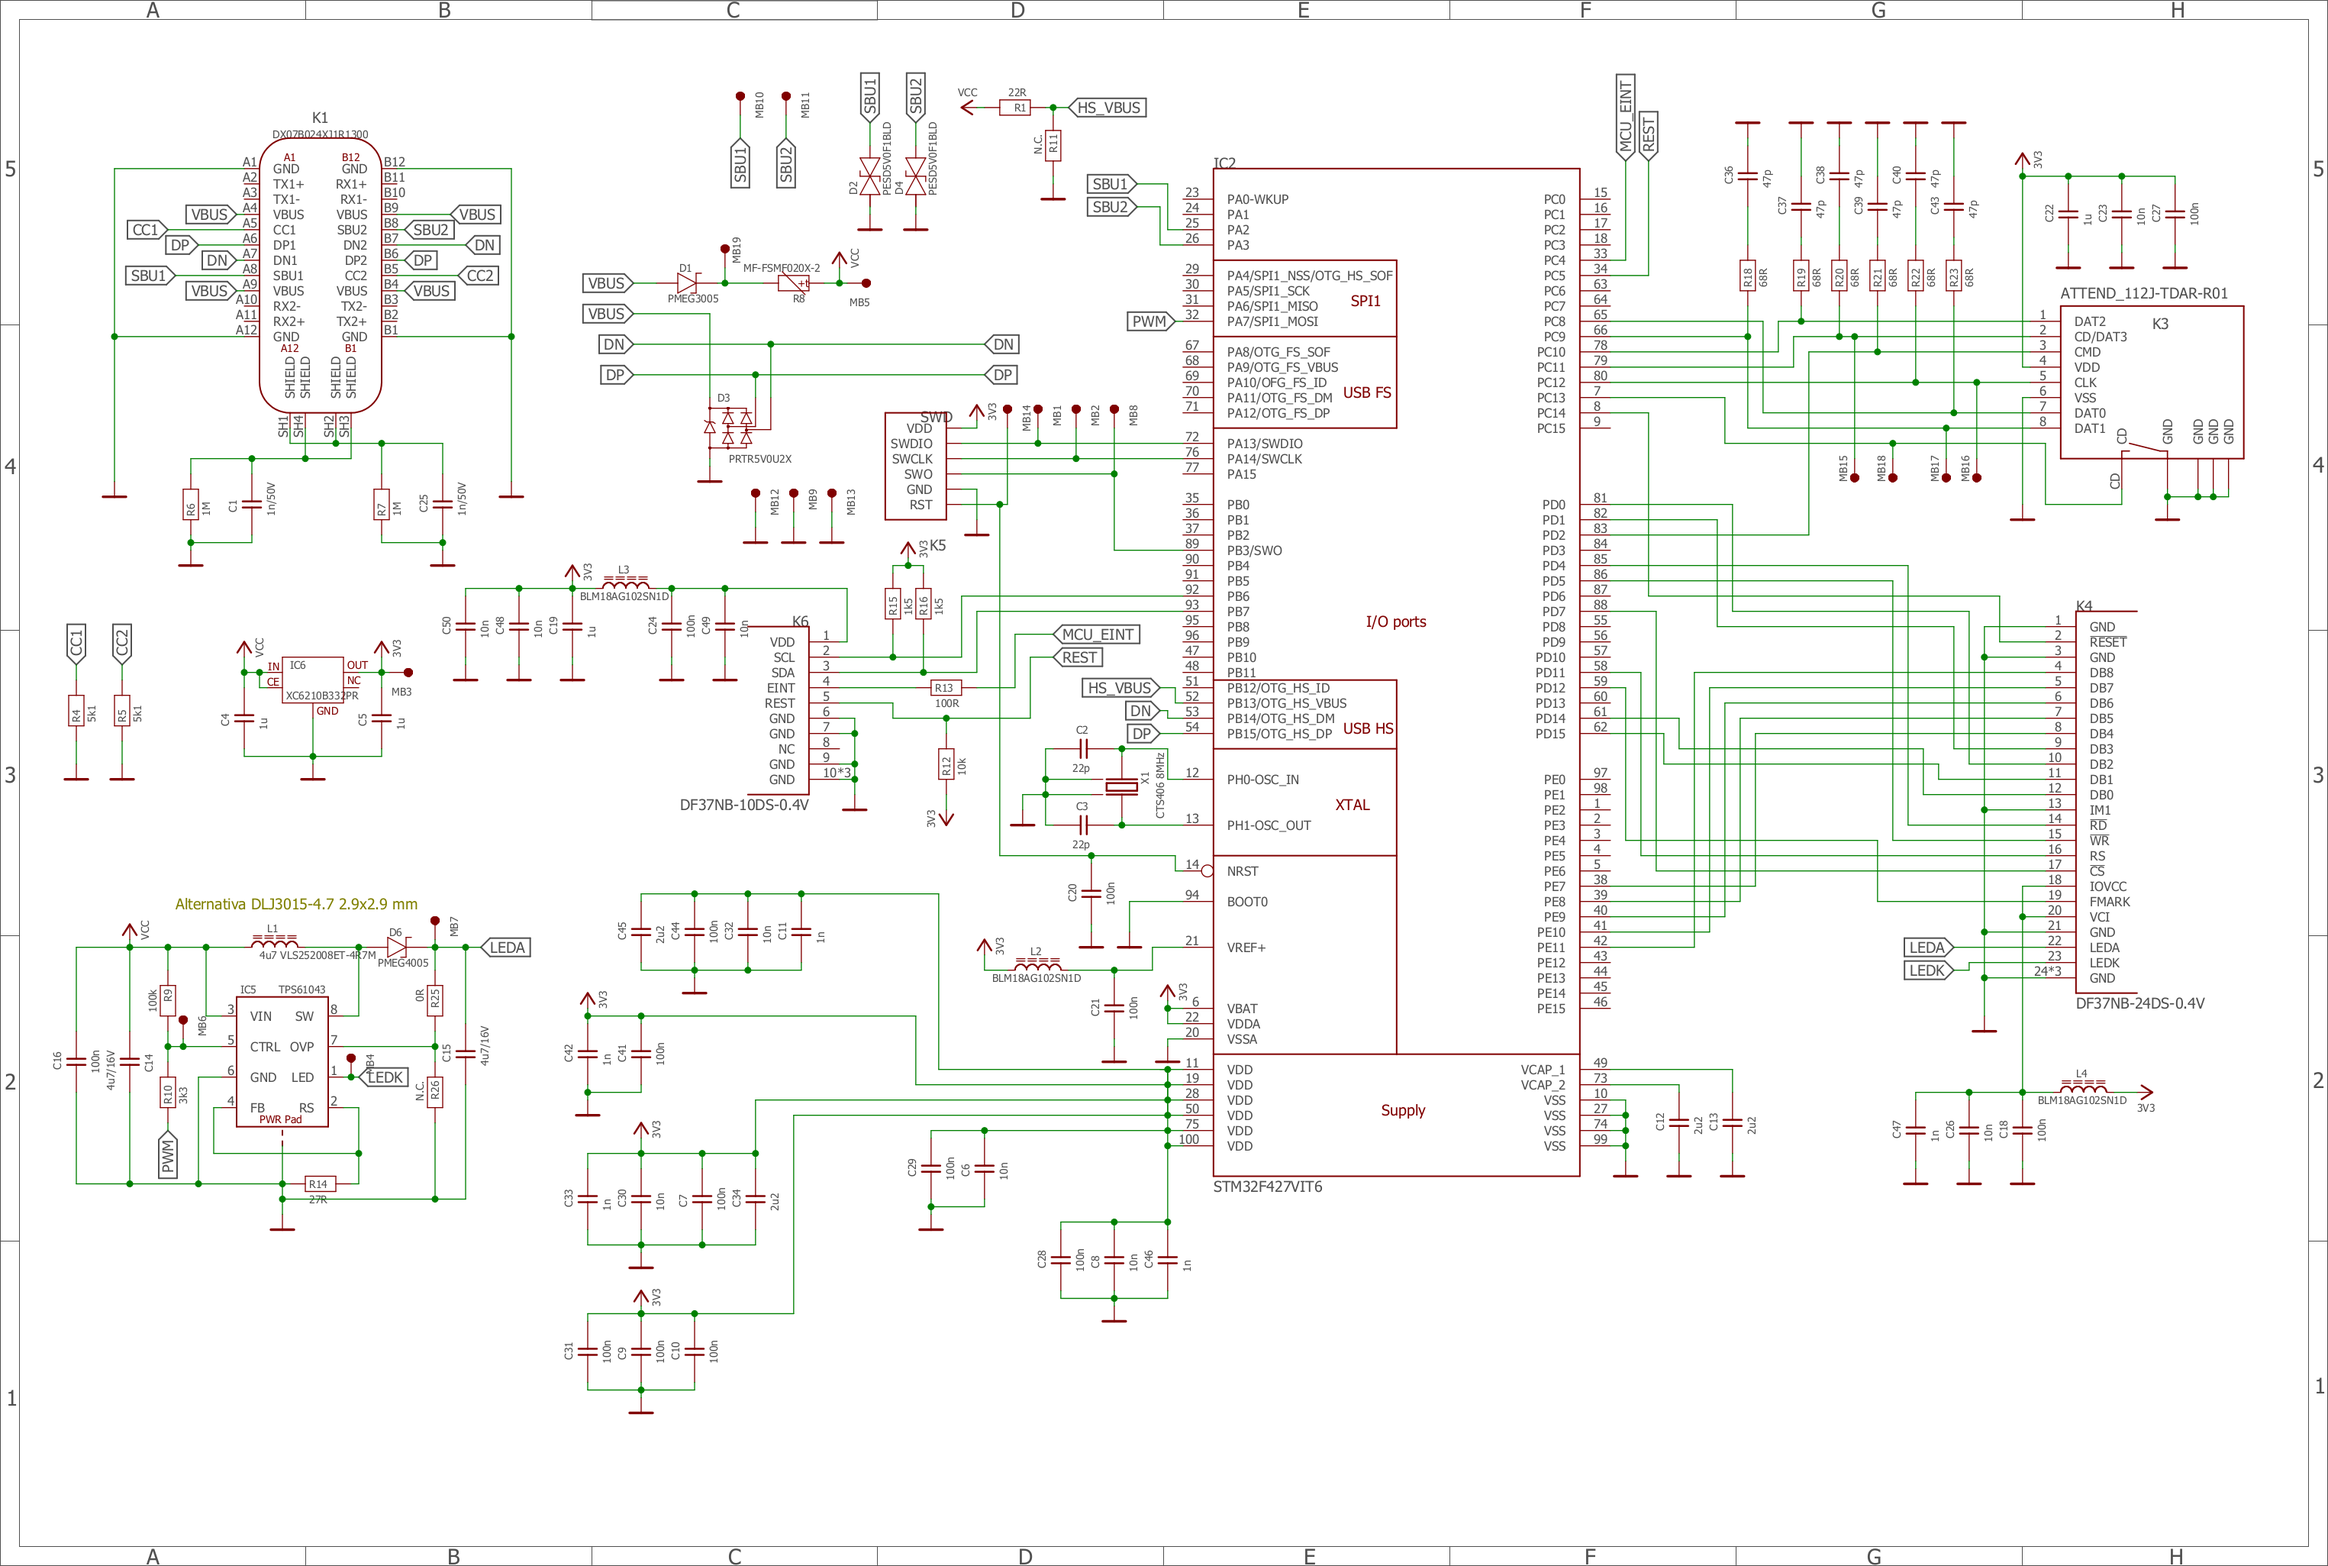
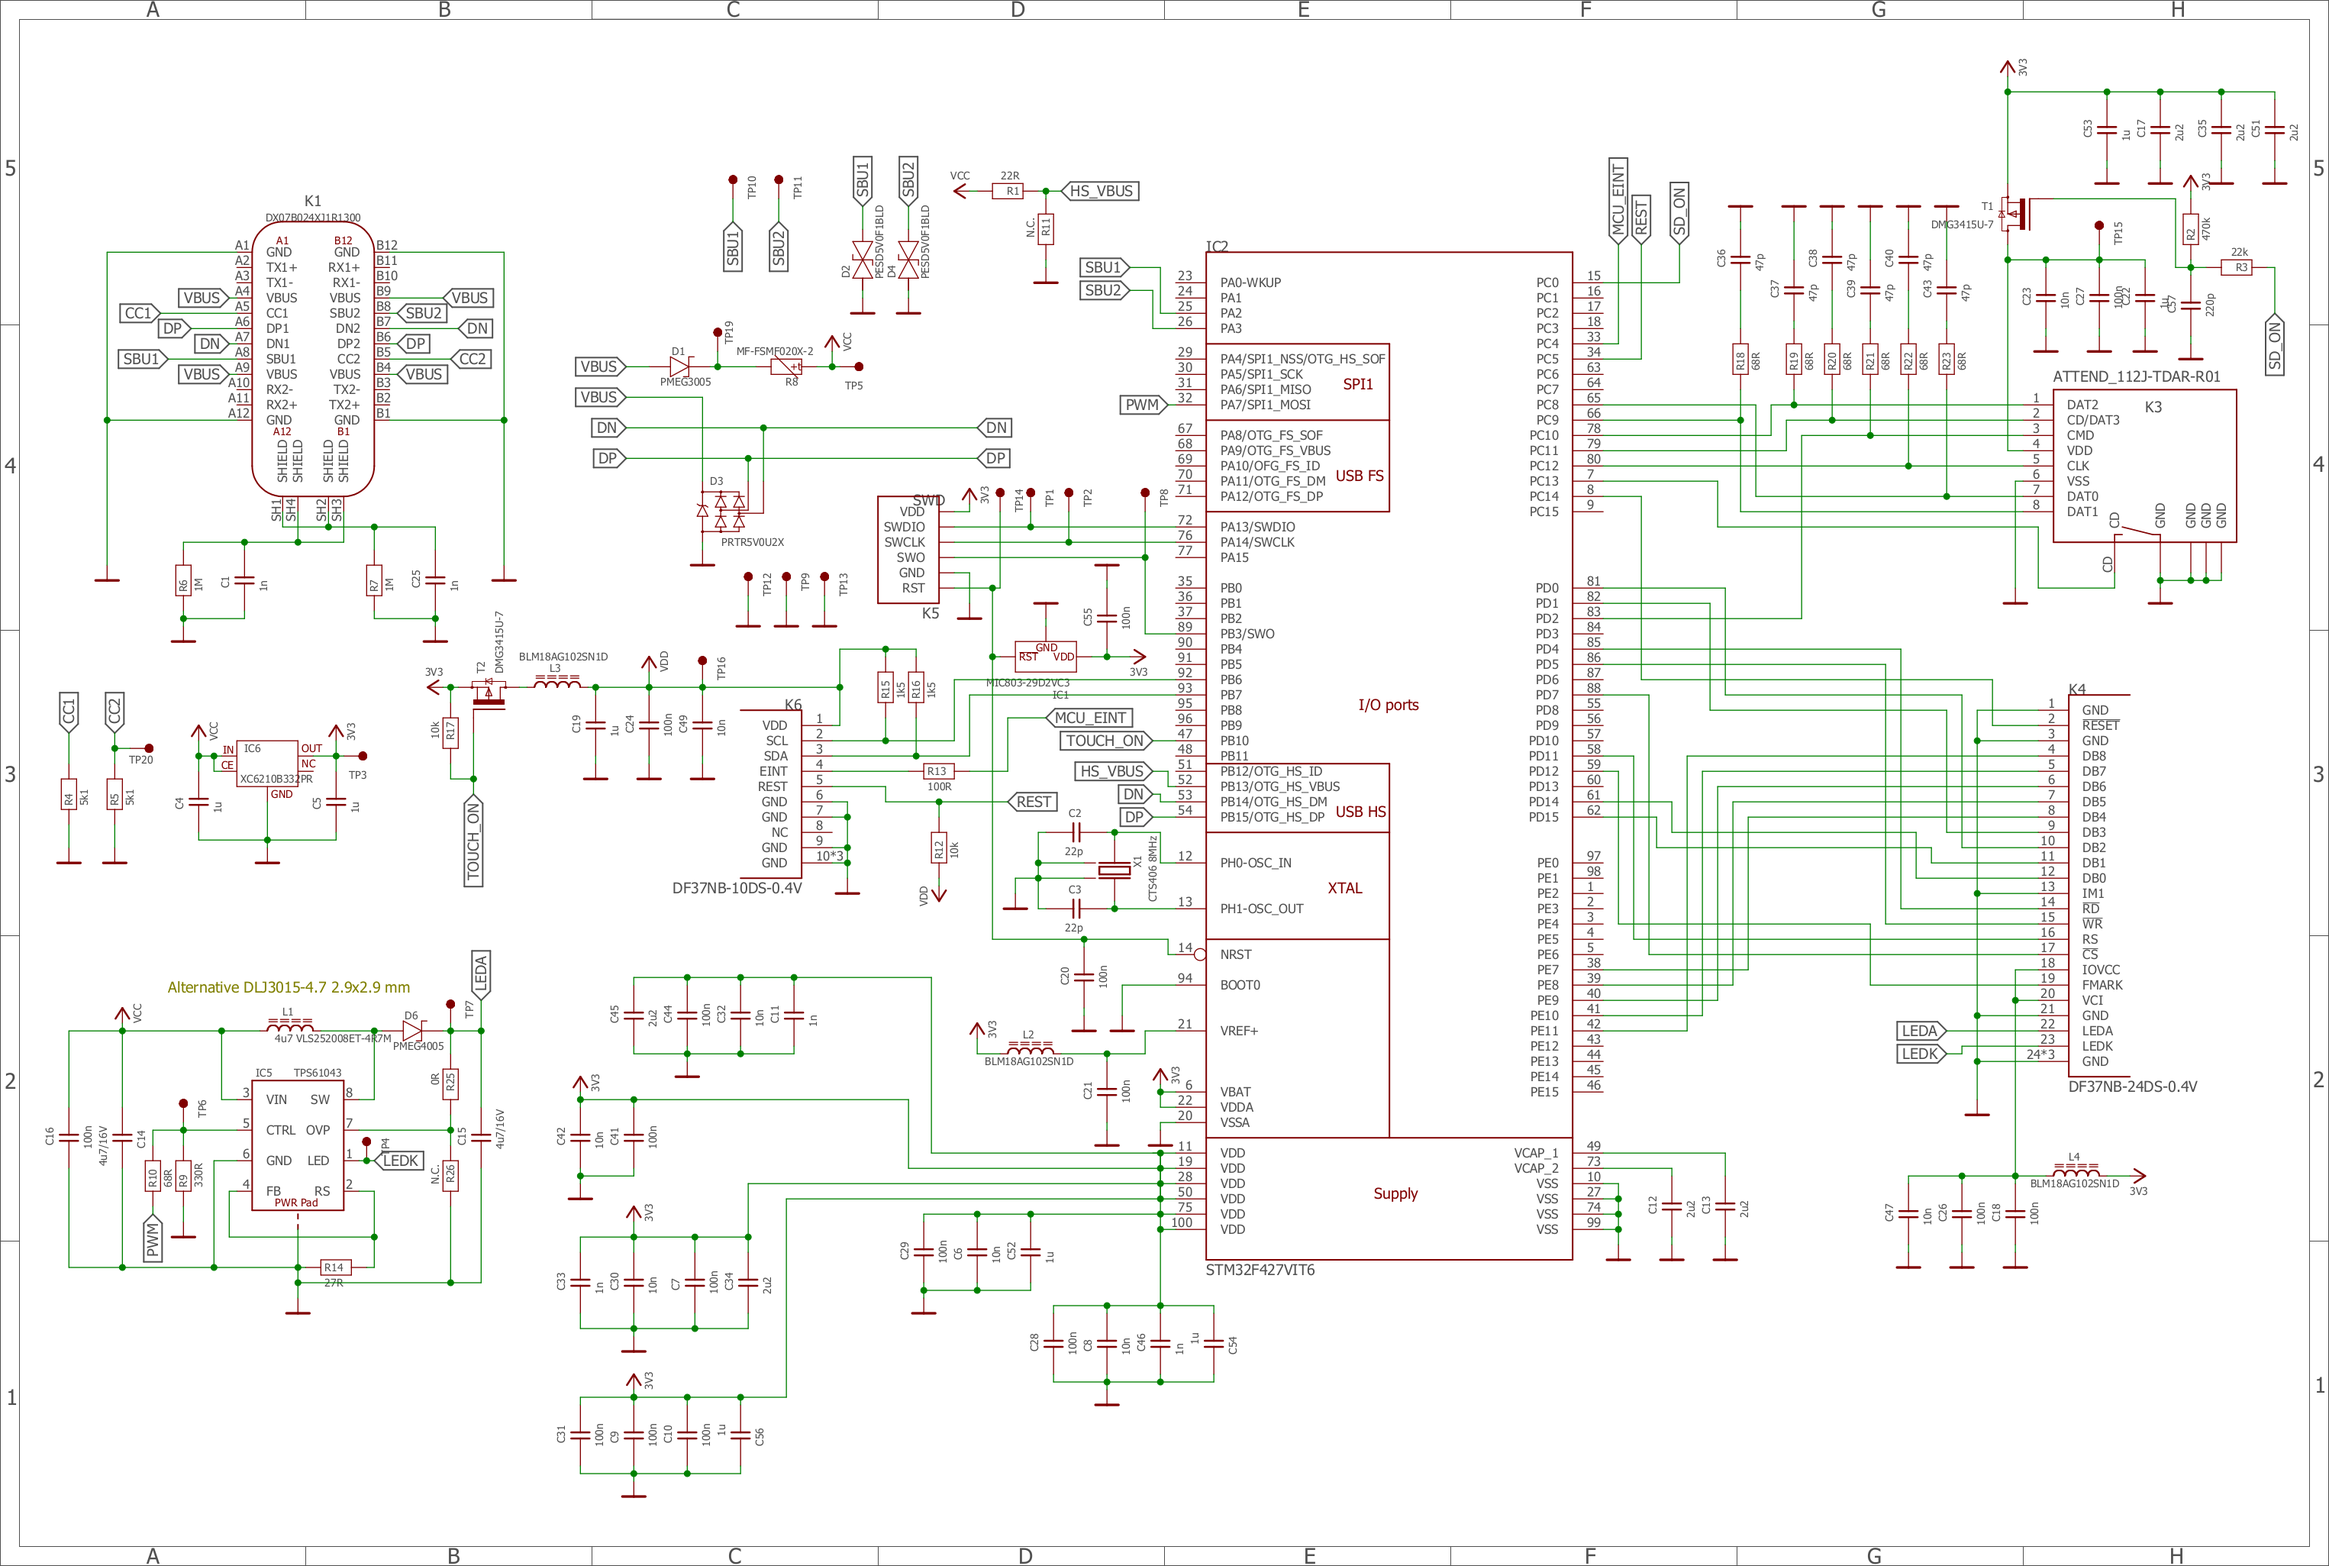
trezorhal: turn sdcard/cpt circuitry on/off using PC0/PB10 pin

diff --git a/embed/trezorhal/sdcard.c b/embed/trezorhal/sdcard.c
@@ -51,6 +51,16 @@
 
 static SD_HandleTypeDef sd_handle;
 
+static void sdcard_default_pin_state(void) {
+    HAL_GPIO_WritePin(GPIOC, GPIO_PIN_0,  GPIO_PIN_SET);    // SD_ON/PC0
+    HAL_GPIO_WritePin(GPIOC, GPIO_PIN_8,  GPIO_PIN_RESET);  // SD_DAT0/PC8
+    HAL_GPIO_WritePin(GPIOC, GPIO_PIN_9,  GPIO_PIN_RESET);  // SD_DAT1/PC9
+    HAL_GPIO_WritePin(GPIOC, GPIO_PIN_10, GPIO_PIN_RESET);  // SD_DAT2/PC10
+    HAL_GPIO_WritePin(GPIOC, GPIO_PIN_11, GPIO_PIN_RESET);  // SD_DAT3/PC11
+    HAL_GPIO_WritePin(GPIOC, GPIO_PIN_12, GPIO_PIN_RESET);  // SD_CLK/PC12
+    HAL_GPIO_WritePin(GPIOD, GPIO_PIN_2,  GPIO_PIN_RESET);  // SD_CMD/PD2
+}
+
 void sdcard_init(void) {
     // invalidate the sd_handle
     sd_handle.Instance = NULL;
@@ -68,11 +78,20 @@ void sdcard_init(void) {
     HAL_GPIO_Init(GPIOD, &GPIO_InitStructure);
 
     // configure the SD card detect pin
-    GPIO_InitStructure.Mode = GPIO_MODE_INPUT;
-    GPIO_InitStructure.Pull = GPIO_PULLUP;
+    GPIO_InitStructure.Mode  = GPIO_MODE_INPUT;
+    GPIO_InitStructure.Pull  = GPIO_PULLUP;
     GPIO_InitStructure.Speed = GPIO_SPEED_FREQ_VERY_HIGH;
-    GPIO_InitStructure.Pin = GPIO_PIN_13;
+    GPIO_InitStructure.Pin   = GPIO_PIN_13;
     HAL_GPIO_Init(GPIOC, &GPIO_InitStructure);
+
+    // configure the SD card circuitry on/off pin
+    GPIO_InitStructure.Mode  = GPIO_MODE_OUTPUT_PP;
+    GPIO_InitStructure.Pull  = GPIO_NOPULL;
+    GPIO_InitStructure.Speed = GPIO_SPEED_FREQ_VERY_HIGH;
+    GPIO_InitStructure.Pin   = GPIO_PIN_0;
+    HAL_GPIO_Init(GPIOC, &GPIO_InitStructure);
+
+    sdcard_default_pin_state();
 }
 
 void HAL_SD_MspInit(SD_HandleTypeDef *hsd) {
@@ -90,6 +109,10 @@ secbool sdcard_is_present(void) {
 }
 
 secbool sdcard_power_on(void) {
+    // turn on SD card circuitry
+    HAL_GPIO_WritePin(GPIOC, GPIO_PIN_0, GPIO_PIN_RESET); // SD_ON/PC0
+    HAL_Delay(50);
+
     if (sectrue != sdcard_is_present()) {
         return secfalse;
     }
@@ -133,6 +156,10 @@ void sdcard_power_off(void) {
     }
     HAL_SD_DeInit(&sd_handle);
     sd_handle.Instance = NULL;
+
+    // turn off SD card circuitry
+    HAL_Delay(50);
+    sdcard_default_pin_state();
 }
 
 uint64_t sdcard_get_capacity_in_bytes(void) {

diff --git a/embed/trezorhal/touch.c b/embed/trezorhal/touch.c
@@ -43,6 +43,16 @@ void touch_init(void)
 {
     GPIO_InitTypeDef GPIO_InitStructure;
 
+    // configure the CTP circuitry on/off pin
+    GPIO_InitStructure.Mode  = GPIO_MODE_OUTPUT_PP;
+    GPIO_InitStructure.Pull  = GPIO_NOPULL;
+    GPIO_InitStructure.Speed = GPIO_SPEED_FREQ_VERY_HIGH;
+    GPIO_InitStructure.Pin   = GPIO_PIN_10;
+    HAL_GPIO_Init(GPIOB, &GPIO_InitStructure);
+
+    HAL_GPIO_WritePin(GPIOB, GPIO_PIN_10, GPIO_PIN_RESET); // CTP_ON/PB10
+    HAL_Delay(50);
+
     // Enable I2C clock
     __HAL_RCC_I2C1_CLK_ENABLE();
 
